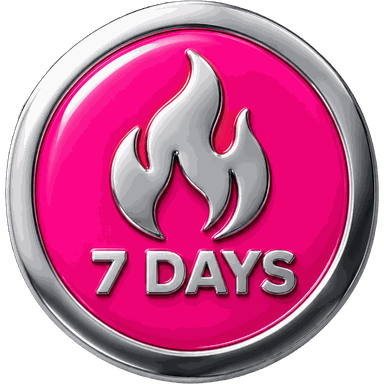
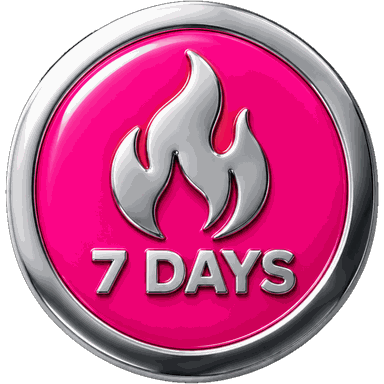
Stop the badge cutouts biting into their own rims
The medal on the award screen came out with a flat slice missing from
the upper-left of its bezel. The ML background remover was eating the
brightest part of the rim, where the specular highlight ran closest to
the black backdrop — worst on Iron Month, but present to some degree
across the set.

The renders are one bright blob on flat black, so the background can be
found exactly rather than guessed: flood-fill inward from the image
border through dark pixels, and everything unreachable is the badge.
That keeps interior dark pixels — shadowed enamel, engraved lines —
opaque, which is precisely what the model got wrong, and a sub-pixel
blur on the resulting alpha keeps the edge smooth.

All 13 award medals and the 3 podium medals are re-cut from their
original renders this way; sizes are unchanged. scripts/cutout-badge.py
keeps the routine for the next batch.

74 tests passing.

Claude-Session: https://claude.ai/code/session_01LpH1c8K2SDYXQ4AqsrPejR

diff --git a/scripts/cutout-badge.py b/scripts/cutout-badge.py
@@ -1,0 +1,54 @@
+"""Cut a badge off its flat black background without a model eating the rim.
+
+The renders are one bright blob on pure black, so the background is exactly the
+region reachable from the image border through dark pixels. Flooding from the
+border keeps interior dark pixels (shadowed enamel, engraved lines) opaque,
+which is where the ML remover kept biting into the bezel.
+"""
+from PIL import Image, ImageFilter
+from collections import deque
+import sys
+
+
+def cutout(path: str, out: str, size: int, threshold: int = 26) -> None:
+    im = Image.open(path).convert('RGB')
+    w, h = im.size
+    px = im.load()
+    lum = [[(px[x, y][0] * 299 + px[x, y][1] * 587 + px[x, y][2] * 114) // 1000 for x in range(w)] for y in range(h)]
+
+    # Background = dark pixels connected to the border.
+    bg = bytearray(w * h)
+    q = deque()
+    for x in range(w):
+        for y in (0, h - 1):
+            if lum[y][x] <= threshold and not bg[y * w + x]:
+                bg[y * w + x] = 1
+                q.append((x, y))
+    for y in range(h):
+        for x in (0, w - 1):
+            if lum[y][x] <= threshold and not bg[y * w + x]:
+                bg[y * w + x] = 1
+                q.append((x, y))
+    while q:
+        x, y = q.popleft()
+        for dx, dy in ((1, 0), (-1, 0), (0, 1), (0, -1)):
+            nx, ny = x + dx, y + dy
+            if 0 <= nx < w and 0 <= ny < h and not bg[ny * w + nx] and lum[ny][nx] <= threshold:
+                bg[ny * w + nx] = 1
+                q.append((nx, ny))
+
+    alpha = Image.frombytes('L', (w, h), bytes(255 if not b else 0 for b in bg))
+    # Soften the 1px staircase the threshold leaves behind.
+    alpha = alpha.filter(ImageFilter.GaussianBlur(0.8))
+    im.putalpha(alpha)
+
+    im = im.crop(im.split()[3].getbbox())
+    cw, ch = im.size
+    side = max(cw, ch)
+    sq = Image.new('RGBA', (side, side), (0, 0, 0, 0))
+    sq.paste(im, ((side - cw) // 2, (side - ch) // 2))
+    sq.resize((size, size), Image.LANCZOS).quantize(colors=255, method=Image.FASTOCTREE).save(out, optimize=True)
+
+
+if __name__ == '__main__':
+    cutout(sys.argv[1], sys.argv[2], int(sys.argv[3]))
